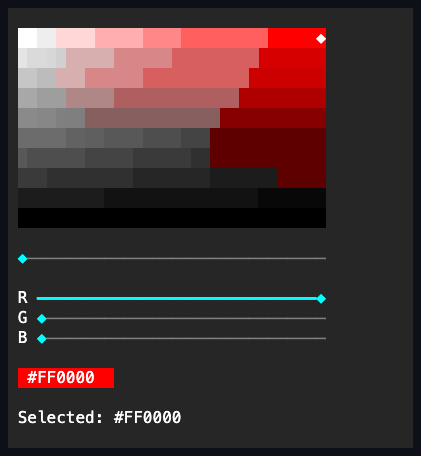
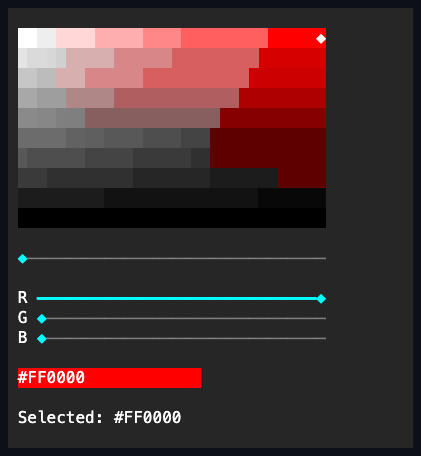
Fix ColorPicker editor color fill

diff --git a/tests/SharpVision.Tests/Controls/Input/ColorPickerTests.cs b/tests/SharpVision.Tests/Controls/Input/ColorPickerTests.cs
@@ -510,7 +510,7 @@ public sealed class ColorPickerTests
     }
 
     /// <summary>Verifies the resolved presentation defaults to each Slider's own semantic profile
-    /// and the library-default status face until an explicit local style is assigned.</summary>
+    /// and a value-colored editor face until an explicit local style is assigned.</summary>
     [Fact]
     public void Style_WhenUnset_SlidersAndStatusFollowTheLibraryDefault()
     {
@@ -525,18 +525,17 @@ public sealed class ColorPickerTests
         picker.ActualStyle.SliderStyle.ShouldBe(expectedSlider.ActualStyle);
         picker.ActualStyle.HueSliderStyle.ShouldBe(picker.HueSlider.ActualStyle);
         var statusFace = picker.ActualStyle.StatusFace.ShouldNotBeNull();
-        statusFace.Background.ShouldBe(Color.Transparent);
+        statusFace.Background.ShouldBe(Color.Rgb(255, 0, 0));
         statusFace.Attributes.ShouldBe((ControlDecoration) SemanticDecoration.NormalText);
         statusFace.Underline.ShouldBe(Underline.None);
         picker.ActualStyle.SelectedMarker.ShouldBeNull();
         picker.Plane.SelectedMarker.ShouldBeNull();
     }
 
-    /// <summary>Verifies an explicit local style propagates to all four owned Sliders and to the
-    /// status readout's background, attributes, and underline, while the foreground stays the
-    /// contrast color computed for the current value.</summary>
+    /// <summary>Verifies an explicit local style propagates to all four owned Sliders and preserves
+    /// value-derived editor colors while applying authored attributes and underline.</summary>
     [Fact]
-    public void Style_WhenSet_PropagatesToAllFourSlidersAndTheStatusBackground()
+    public void Style_WhenSet_PropagatesSlidersAndPreservesValueColoredStatus()
     {
         var picker = new ColorPicker { Value = Color.Rgb(10, 20, 30) };
         var sliderStyle = new SliderStyle(
@@ -570,7 +569,7 @@ public sealed class ColorPickerTests
         picker.ActualStyle.SliderStyle.ShouldBe(sliderStyle);
         picker.ActualStyle.HueSliderStyle.ShouldBe(picker.HueSlider.ActualStyle);
         var statusFace = picker.ActualStyle.StatusFace.ShouldNotBeNull();
-        statusFace.Background.ShouldBe(face.Background);
+        statusFace.Background.ShouldBe(Color.Rgb(10, 20, 30));
         statusFace.Attributes.ShouldBe(face.Attributes);
         statusFace.Underline.ShouldBe(face.Underline);
         statusFace.Foreground.ShouldBe(ColorMath.Contrast(Color.Rgb(10, 20, 30)));
@@ -800,11 +799,10 @@ public sealed class ColorPickerTests
         }, TestContext.Current.CancellationToken);
     }
 
-    /// <summary>Verifies a caller-supplied status background survives a later value commit, while
-    /// the foreground is refreshed to the newly computed contrast color rather than the value that
-    /// was current when the style was applied.</summary>
+    /// <summary>Verifies a later value commit refreshes both value-derived editor colors while
+    /// preserving the caller-supplied status decorations.</summary>
     [Fact]
-    public void Value_WhenCommittedAfterStatusStyleIsSet_PreservesContrastForegroundAndCallerBackground()
+    public void Value_WhenCommittedAfterStatusStyleIsSet_RefreshesValueColorsAndPreservesDecorations()
     {
         var picker = new ColorPicker { Value = Color.Rgb(10, 20, 30) };
         var face = new Face(
@@ -824,9 +822,11 @@ public sealed class ColorPickerTests
         picker.Value = Color.Rgb(200, 210, 220);
 
         var statusFace = picker.ActualStyle.StatusFace.ShouldNotBeNull();
-        statusFace.Background.ShouldBe(face.Background);
+        statusFace.Background.ShouldBe(Color.Rgb(200, 210, 220));
         statusFace.Foreground.ShouldBe(ColorMath.Contrast(Color.Rgb(200, 210, 220)));
         statusFace.Foreground.ShouldNotBe(ColorMath.Contrast(Color.Rgb(10, 20, 30)));
+        statusFace.Attributes.ShouldBe(face.Attributes);
+        statusFace.Underline.ShouldBe(face.Underline);
     }
 
     /// <summary>Verifies replacing Style notifies observers exactly once per distinct value and

diff --git a/tests/SharpVision.Tests/Controls/Input/ColorPickerSurfaceTests.cs b/tests/SharpVision.Tests/Controls/Input/ColorPickerSurfaceTests.cs
@@ -420,18 +420,22 @@ public sealed class ColorPickerSurfaceTests
         Color background,
         Color foreground)
     {
-        _ = background;
-        _ = foreground;
-        var origin = new Point(picker.Preview.Bounds.X, picker.Preview.Bounds.Y);
-        picker.Preview.Bounds.Width.ShouldBeGreaterThan(0);
-        picker.Preview.Bounds.Height.ShouldBeGreaterThan(0);
-        var textX = origin.X;
+        var bounds = picker.ValueTextInput.Bounds;
+        var projectedBackground = TerminalPalette.Project(background, picker.EffectiveColorDepth);
+        var projectedForeground = TerminalPalette.Project(foreground, picker.EffectiveColorDepth);
+        bounds.Width.ShouldBeGreaterThan(0);
+        bounds.Height.ShouldBe(1);
 
-        for (var index = 0; index < text.Length; index++)
+        for (var index = 0; index < bounds.Width; index++)
         {
-            var cell = surface.Cell(new Point(textX + index, origin.Y));
-            cell.Text.ShouldBe(text[index].ToString());
-            cell.Style.Background.IsRgb.ShouldBeTrue();
+            var cell = surface.Cell(new Point(bounds.X + index, bounds.Y));
+            cell.Style.Background.ShouldBe(projectedBackground);
+
+            if (index < text.Length)
+            {
+                cell.Text.ShouldBe(text[index].ToString());
+                cell.Style.Foreground.ShouldBe(projectedForeground);
+            }
         }
     }
 }

diff --git a/src/SharpVision/Controls/Input/ColorPickerStyle.cs b/src/SharpVision/Controls/Input/ColorPickerStyle.cs
@@ -76,7 +76,8 @@ public sealed record ColorPickerStyle: ControlStyle
     public SliderStyle? HueSliderStyle { get; init; }
 
     /// <summary>Gets the value-editor face contribution, or null for the library fallback.</summary>
-    /// <remarks>The foreground is ignored because ColorPicker recomputes contrast from its value or
-    /// the active Theme's error color.</remarks>
+    /// <remarks>For an RGB value, ColorPicker replaces the foreground and background with the
+    /// contrasting text and selected color. Invalid text uses the active Theme's error colors.
+    /// Authored colors apply to <see cref="Color.Default"/>; decorations always remain authored.</remarks>
     public Face? StatusFace { get; init; }
 }

diff --git a/src/SharpVision/Controls/Input/ColorPicker.cs b/src/SharpVision/Controls/Input/ColorPicker.cs
@@ -423,8 +423,13 @@ public sealed class ColorPicker: CompositeControlBase, IStyled<ColorPickerStyle>
 
         if (_isValueTextValid)
         {
-            var rgb = _value.IsRgb ? _value : Color.Rgb(0, 0, 0);
-            return authored with { Foreground = rgb.Contrast() };
+            return _value.IsRgb
+                ? authored with
+                {
+                    Foreground = _value.Contrast(),
+                    Background = _value
+                }
+                : authored;
         }
 
         var error = (Theme ?? ThemeCatalog.Dark).Error;

diff --git a/docs/controls/input/color-picker.md b/docs/controls/input/color-picker.md
@@ -52,11 +52,11 @@ parts themselves. `SliderStyle` (`SliderStyle?`) is applied to all three RGB
 `Slider`s. `HueSliderStyle` (`SliderStyle?`) independently styles the retained
 hue slider; when unset, it derives from `SliderStyle`, and its background is
 always made transparent so the rainbow ramp remains visible. `StatusFace`
-(`Face?`) styles the value field's valid background, attributes, and underline;
-the Foreground component is always ignored, because `ColorPicker` recomputes the
-field foreground from the current value on every commit. Invalid text
-temporarily replaces the background with `SemanticColor.Error` and derives a
-contrasting foreground while preserving the authored decorations.
+(`Face?`) styles the value field's attributes and underline. For an RGB value,
+`ColorPicker` replaces both face colors with the selected RGB background and a
+contrasting foreground on every commit; authored colors apply when the value is
+`Color.Default`. Invalid text temporarily replaces both colors with the active
+theme's error background and contrast while preserving authored decorations.
 `SelectedMarker` (`Rune?`) replaces the printable glyph the plane draws over the
 currently selected coordinate; a value that cannot occupy exactly one cell under
 the active width policy falls back to the same code-owned repair glyph as an
